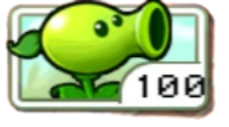
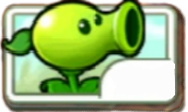
Add card validation limit

diff --git a/pVz/gameplay.cpp b/pVz/gameplay.cpp
@@ -31,16 +31,16 @@ GamePlay::GamePlay(float width , float height)
 void GamePlay::Load_Cards()
 {
 
-	Card* plant_type_1_card = new Card(PLANT_TYPE_1 ,50,FIRST_CARD_COORDINATE_X,FIRST_CARD_COORDINATE_Y,PLANT_TYPE_1_ON_CARD_PATH,PLANT_TYPE_1_OFF_CARD_PATH);
+	Card* plant_type_1_card = new Card(PLANT_TYPE_1 ,50,FIRST_CARD_COORDINATE_X,FIRST_CARD_COORDINATE_Y,PLANT_TYPE_1_ON_CARD_PATH,PLANT_TYPE_1_OFF_CARD_PATH,8);
 	cards.push_back(plant_type_1_card);
 
-	Card* plant_type_2_card = new Card(PLANT_TYPE_2 ,100,FIRST_CARD_COORDINATE_X,FIRST_CARD_COORDINATE_Y + CARD_HEIGHT + 10,PLANT_TYPE_2_ON_CARD_PATH,PLANT_TYPE_2_OFF_CARD_PATH);
+	Card* plant_type_2_card = new Card(PLANT_TYPE_2 ,100,FIRST_CARD_COORDINATE_X,FIRST_CARD_COORDINATE_Y + CARD_HEIGHT + 10,PLANT_TYPE_2_ON_CARD_PATH,PLANT_TYPE_2_OFF_CARD_PATH,8);
 	cards.push_back(plant_type_2_card);
 
-	Card* plant_type_3_card = new Card(PLANT_TYPE_3 ,175,FIRST_CARD_COORDINATE_X,FIRST_CARD_COORDINATE_Y + 2 * (CARD_HEIGHT +10),PLANT_TYPE_3_ON_CARD_PATH,PLANT_TYPE_3_OFF_CARD_PATH);
+	Card* plant_type_3_card = new Card(PLANT_TYPE_3 ,175,FIRST_CARD_COORDINATE_X,FIRST_CARD_COORDINATE_Y + 2 * (CARD_HEIGHT +10),PLANT_TYPE_3_ON_CARD_PATH,PLANT_TYPE_3_OFF_CARD_PATH,8);
 	cards.push_back(plant_type_3_card);
 
-	Card* plant_type_4_card = new Card(PLANT_TYPE_4 ,50,FIRST_CARD_COORDINATE_X,FIRST_CARD_COORDINATE_Y + 3 * (CARD_HEIGHT +10),PLANT_TYPE_4_ON_CARD_PATH,PLANT_TYPE_4_OFF_CARD_PATH);
+	Card* plant_type_4_card = new Card(PLANT_TYPE_4 ,50,FIRST_CARD_COORDINATE_X,FIRST_CARD_COORDINATE_Y + 3 * (CARD_HEIGHT +10),PLANT_TYPE_4_ON_CARD_PATH,PLANT_TYPE_4_OFF_CARD_PATH,30);
 	cards.push_back(plant_type_4_card);	
 	
 }
@@ -48,7 +48,7 @@ void GamePlay::Load_Cards()
 void GamePlay::draw(sf::RenderWindow &window ,float current_global_time)
 {
 	window.draw(playground);
-	Draw_Cards(window);
+	Draw_Cards(window , current_global_time);
 	Draw_Plants(window);
 	Draw_Zombies(window,current_global_time);
 	Draw_Bullets(window);
@@ -79,36 +79,41 @@ void GamePlay::Card_Selection(sf::RenderWindow &window , float current_global_ti
 {
 	if(selected_card_index == 0 || selected_card_index == 1 || selected_card_index == 2 || selected_card_index == 3)
 	{
-		sf::Vector2i localPosition;
-		Plant *new_plant = new Plant(selected_card_index);
-
-		plants.push_back(new_plant);
-		bool selected_statement = true;
-		while(window.isOpen())
+		Card * selected_card = cards[selected_card_index];
+		if(selected_card->is_Valid())
 		{
-			sf::Event event;
-			while(window.pollEvent(event))
-			{
-				localPosition = sf::Mouse::getPosition(window);
-				if(is_Line_Range(localPosition , new_plant))
-				{
-					if(sf::Mouse::isButtonPressed(sf::Mouse::Left))
-					{
-						Line* plant_line = Find_Line(new_plant->line_id);
-						plant_line->Add_Plant(new_plant);
-						selected_statement =  !is_Valid_Square(new_plant);
-						break;
-					}
-				}
+			sf::Vector2i localPosition;
+			Plant *new_plant = new Plant(selected_card_index);
 
-				if(event.type == sf::Event::Closed)
-					window.close();
+			plants.push_back(new_plant);
+			bool selected_statement = true;
+			while(window.isOpen())
+			{
+				sf::Event event;
+				while(window.pollEvent(event))
+				{
+					localPosition = sf::Mouse::getPosition(window);
+					if(is_Line_Range(localPosition , new_plant))
+					{
+						if(sf::Mouse::isButtonPressed(sf::Mouse::Left))
+						{
+							selected_card->Apply_Current_Time(current_global_time);
+							Line* plant_line = Find_Line(new_plant->line_id);
+							plant_line->Add_Plant(new_plant);
+							selected_statement =  !is_Valid_Square(new_plant);
+							break;
+						}
+					}
+
+					if(event.type == sf::Event::Closed)
+						window.close();
+				}
+				if(!selected_statement)
+					break;
+				window.clear();
+				draw(window,current_global_time);
+				window.display();
 			}
-			if(!selected_statement)
-				break;
-			window.clear();
-			draw(window,current_global_time);
-			window.display();
 		}
 	}
 }
@@ -123,11 +128,11 @@ bool GamePlay::is_Line_Range(sf::Vector2i localPosition ,Plant *p)
 	
 }
 
-void GamePlay::Draw_Cards(sf::RenderWindow &window)
+void GamePlay::Draw_Cards(sf::RenderWindow &window ,float current_global_time)
 {
 	for(int i=0 ; i<cards.size() ; i++)
 	{
-		cards[i]->draw(window);
+		cards[i]->draw(window,current_global_time);
 	}
 }
 

diff --git a/pVz/card.cpp b/pVz/card.cpp
@@ -1,8 +1,10 @@
 #include "card.h"
 
-Card::Card(std::string n,int pr,float x_position , float y_position, std::string on_card_path ,  std::string off_card_path)
+Card::Card(std::string n,int pr,float x_position , float y_position, std::string on_card_path ,  std::string off_card_path , float invalid_t)
 {
 	name = n;
+	invalid_time = invalid_t;
+	validation = true;
 
 	shape.setSize(sf::Vector2f(CARD_WIDTH,CARD_HEIGHT));
 	shape.setPosition(x_position,y_position);
@@ -32,8 +34,18 @@ Card::Card(std::string n,int pr,float x_position , float y_position, std::string
 
 }
 
-void Card::draw(sf::RenderWindow &window)
+void Card::draw(sf::RenderWindow &window ,float current_global_time )
 {
+	if(current_global_time - last_time_selected >= invalid_time)
+	{
+		validation =true;
+	}
+
+	if(validation)
+		shape.setTexture(&on_texture);
+	else
+		shape.setTexture(&off_texture);
+
 	window.draw(shape);
 	window.draw(price);
 }
@@ -41,4 +53,15 @@ void Card::draw(sf::RenderWindow &window)
 sf::Vector2f  Card::getPosition()
 {
 	return shape.getPosition();
+}
+
+bool Card::is_Valid()
+{
+	return validation;
+}
+
+void Card::Apply_Current_Time(float current_global_time)
+{
+	last_time_selected = current_global_time;
+	validation = false;
 }

diff --git a/pVz/card.h b/pVz/card.h
@@ -12,15 +12,20 @@ const std::string DIGIT_FONT_PATH = "font/digit_font.ttf";
 class Card
 {
 public:
-	Card(std::string n,int pr,float x_position , float y_position, std::string on_card_path ,  std::string off_card_path);
-	void draw(sf::RenderWindow &window);
+	Card(std::string n,int pr,float x_position , float y_position, std::string on_card_path ,  std::string off_card_path ,float invalit_t);
+	void draw(sf::RenderWindow &window ,float current_global_time);
 	sf::Vector2f getPosition();
+	bool is_Valid();
+	void Apply_Current_Time(float current_global_time);
 
 private:
+	bool validation;
 	std::string name;
 	sf::RectangleShape shape;
 	sf::Texture on_texture;
 	sf::Texture off_texture;
 	sf::Text price;
 	sf::Font font;
+	float last_time_selected;
+	float invalid_time;
 };

diff --git a/pVz/gameplay.h b/pVz/gameplay.h
@@ -35,7 +35,7 @@ public:
 	void Load_Cards();
 	void draw(sf::RenderWindow &window,float current_global_time);
 	void Move_Mouse(sf::RenderWindow &window);
-	void Draw_Cards(sf::RenderWindow &window);
+	void Draw_Cards(sf::RenderWindow &window,float current_global_time);
 	void Draw_Plants(sf::RenderWindow &window);
 	void Card_Selection(sf::RenderWindow &window,float current_global_time);
 	bool is_Line_Range(sf::Vector2i localPosition ,Plant *p);

diff --git a/pVz/Play.cpp b/pVz/Play.cpp
@@ -60,7 +60,7 @@ void Play(sf::RenderWindow &window)
 				std:: cout << "Error in loading dead_sound" << std::endl;
 			}
 			dead_sound.setBuffer(buffer);
-
+	
 			dead_sound.play();
 			soundtrack.stop();	
 			gameover(window);
